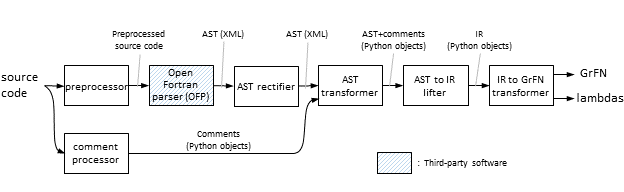
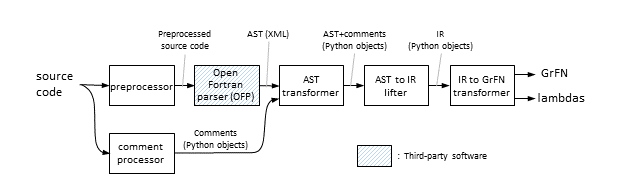
removed references to AST rectification

diff --git a/documentation/deliverable_reports/m5_final_phase1_report/for2py.md b/documentation/deliverable_reports/m5_final_phase1_report/for2py.md
@@ -13,8 +13,8 @@ The processing of the input source code proceeds as follows:
 
 * **Preprocessing:** This step processes the input file to work around some legacy Fortran features (Fortran-77) that `OFP` has trouble handling, e.g., continuation lines, comments in certain contexts.
 * **Comment processing:** Like most other programming language parsers, `OFP` discards comments.  Since comments play a vital role in AutoMATES, we use a separate processing step to extract comments from the input code for later processing.  For comments associated with particular lines of code, we add special marker statements into the source code that become embedded in the AST.  This allows us to subsequently associate the extracted comments with the corresponding points in the code.
-* **AST rectification:** The ASTs produced by `OFP` for some language features have unexpected complexities in their structure that complicate subsequent processing.  This occurs, for example, with derived types (which are akin to C `structs`) and `FORMAT` statements in certain contexts.  To simplify subsequent processing, and also to isolate subsequent processing from such parser-specific idiosyncracies, we transform the ASTs produced by `OFP` to remove such complexities ("rectification").
-* **AST transformation:** This step takes the rectified ASTs in XML form and simplifies them by removing irrelevant Fortran-specific details.  It then combines the resulting data structure with the comments extracted from the program so that comments can be correlated with the appropriate program points.  The result is written out as a pickled Python data structure.
+* **AST Extraction:** This step uses the `OFP` Fortran parser to extract an AST of the input program in XML form.
+* **AST transformation:** This step takes the AST obtained from `OFP` and simplifies it by removing irrelevant Fortran-specific details.  It then combines the resulting data structure with the comments extracted from the program so that comments can be correlated with the appropriate program points.  The result is written out as a pickled Python data structure.
 * **AST to IR lifter:** The simplified AST resulting from the previous step is then lifted into `for2py`'s internal representation (IR).  As an intermediate step of this process, `for2py` generates a Python program that is behaviorally equivalent to the input code and which can be used to validate the translation.
 * **GrFN generation:** The IR constructed in the previous step is mapped to the GrFN specification of the input code together with associated Python functions ("lambdas")
 
@@ -48,8 +48,8 @@ Many of the components in the pipeline described above can be run as stand-alone
 Our implementation effort since the last report has focused on the following:
 
 1) **Modules.** At the time of our previous report, we were able to read in Fortran modules into the `for2py` IR.  Since then we have focused on translating this IR into the corresponding GrFN representation.  This led to a reexamination and generalization of the treatment of scopes and namespaces in GrFN.  We have now incorporated this generalization into the translation of module constructs in `for2py`.
-2) **Derived types.** These are the Fortran equivalent of `struct`s in the C programming language; `for2py` translates these into `@dataclass` objects in Python.  The translation of derived types is complicated by `OFP`'s handling of this construct (see above, under *AST rectification*).  We are currently working on (*a*) refactoring and cleaning up our initial code to handle derived types to use rectification; and (*b*) extending the implementation to handle nested derived types.
+2) **Derived types.** These are the Fortran equivalent of `struct`s in the C programming language; `for2py` translates these into `@dataclass` objects in Python.  The translation of derived types is complicated by `OFP`'s handling of this construct.  We are currently working on (*a*) refactoring and cleaning up our initial code to handle derived types to make it easier to extend, debug, and maintain; and (*b*) extending the implementation to handle nested derived types.
 3) **Comment handling.** We have extended our handling of comments to include both function-level and intra-function comments.  This necessitated developing a way to insert semantics-preserving markers into the ASTs generated by `OFP` and associating each such marker with the corresponding intra-function comment.
 4) **Testing and debugging.** We have been working on testing and debugging the end-to-end translation pipeline to improve its usability and robustness.
-5) **Refactoring.** We have been working on refactoring the `for2py` code to make it easier to understand and maintain.
+
 
